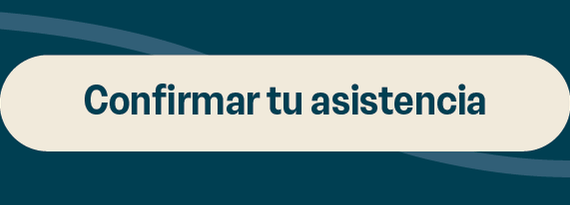
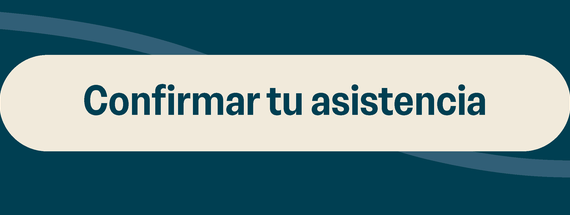
Congela inv2-* y publica el recordatorio como inv3-*
inv2-* habia sido sobrescrito con el recordatorio, lo que habria cambiado la
imagen de cualquier correo ya enviado que apunte a esas URLs. Se restaura
inv2-* al estado del commit 1d233bf y el recordatorio pasa a inv3-*.

Regla a partir de aqui: cada envio usa su propio juego de archivos. Nunca se
sobrescribe un archivo que ya salio en un correo.

diff --git a/index.html b/index.html
@@ -68,18 +68,18 @@
 <body>
 
   <main class="hoja">
-    <img src="inv2-top.png"
+    <img src="inv3-top.png"
          alt="¡Nos vemos mañana! Britebound y Lab4U. Celebra con nosotros. Mañana celebraremos junto a nuestra Comunidad Lab4U la adquisición de Lab4U por parte de Britebound. Nos acompañará Bill Shaw, EVP de Britebound, en un encuentro donde hablaremos sobre impacto, IA, educación STEM y mucho más. Fecha: martes 18 de agosto de 2026. Hora: 16:00 a 19:30 hrs. Lugar: Renaissance Santiago Hotel, Av. Kennedy 4700, Vitacura, Terraza Olas, piso menos 1. Estacionamiento: Kennedy 4700, Vitacura, costado edificio Patio. Si ya hiciste RSVP, ¡gracias! Tu participación está confirmada. Si aún no has confirmado, responde este correo o hazlo aquí:">
 
     <div class="cta">
-      <img class="izq" src="inv2-left.png" alt="">
+      <img class="izq" src="inv3-left.png" alt="">
       <a class="boton" href="https://forms.gle/pxp5mkxh6rfN741e8" target="_blank" rel="noopener">
-        <img src="inv2-pill.png" alt="Confirmar tu asistencia">
+        <img src="inv3-pill.png" alt="Confirmar tu asistencia">
       </a>
-      <img class="der" src="inv2-right.png" alt="">
+      <img class="der" src="inv3-right.png" alt="">
     </div>
 
-    <img src="inv2-bottom.png"
+    <img src="inv3-bottom.png"
          alt="¡Te esperamos mañana! Saludos, Komal Dadlani, CEO y cofundadora de Lab4U. Lab4U, ahora parte de Britebound.">
   </main>
 
